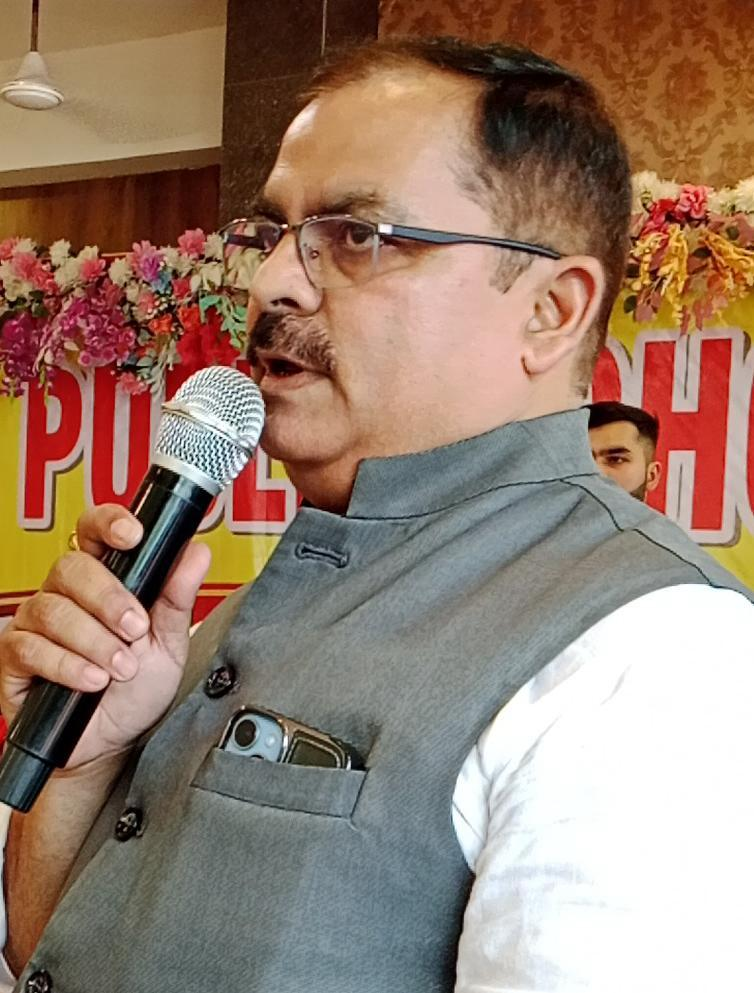
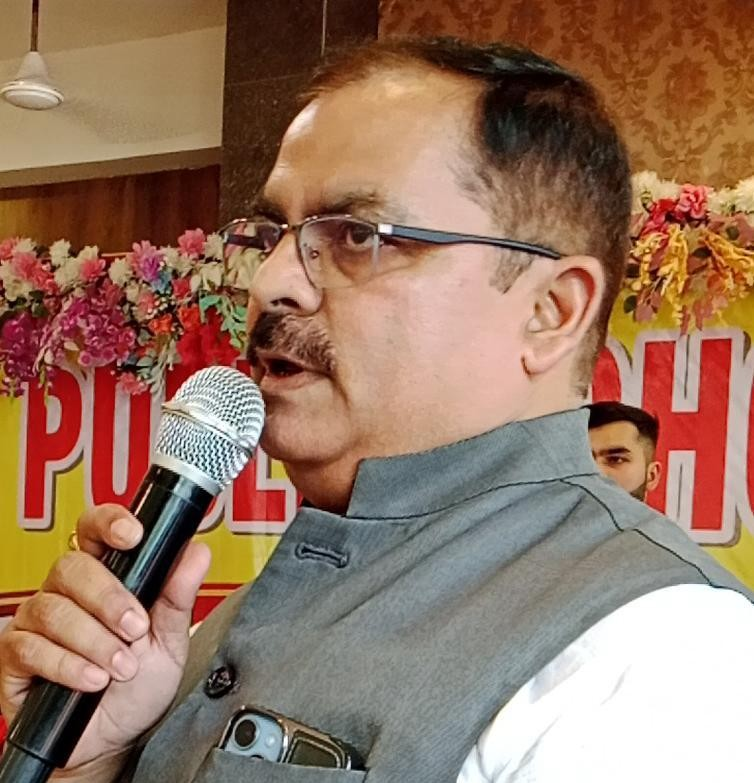
update website

diff --git a/css/style.css b/css/style.css
@@ -217,7 +217,7 @@ ul {
 
 .btn-outline:hover {
 
-    background: var(--white);
+    background: var(--surface);
 
     color: var(--primary);
 }
@@ -313,6 +313,10 @@ ul {
     width: 52px;
 
     height: 52px;
+
+    flex: 0 0 52px;
+
+    aspect-ratio: 1;
 
     overflow: hidden;
 
@@ -550,21 +554,18 @@ ul {
     background:
         linear-gradient(
             90deg,
-            rgba(7,31,54,.96),
-            rgba(7,31,54,.72),
-            rgba(7,31,54,.25)
+            rgba(0, 0, 0, .62),
+            rgba(0, 0, 0, .28),
+            rgba(0, 0, 0, .06)
         );
 }
 
 
 .hero-slider-controls {
     position: absolute;
-    right: max(4%, calc((100vw - 1150px) / 2));
-    bottom: 28px;
+    inset: 0;
     z-index: 3;
-    display: flex;
-    align-items: center;
-    gap: 12px;
+    pointer-events: none;
 }
 
 
@@ -579,16 +580,35 @@ ul {
 
 
 .hero-slider-arrow {
-    width: 40px;
-    height: 40px;
+    position: absolute;
+    top: 50%;
+    width: 48px;
+    height: 48px;
     border-radius: 50%;
-    font-size: 19px;
+    font-size: 24px;
+    pointer-events: auto;
+    transform: translateY(-50%);
+}
+
+
+.hero-slider-arrow[data-slide-direction="previous"] {
+    left: max(4%, calc((100vw - 1150px) / 2));
+}
+
+
+.hero-slider-arrow[data-slide-direction="next"] {
+    right: max(4%, calc((100vw - 1150px) / 2));
 }
 
 
 .hero-slider-dots {
+    position: absolute;
+    bottom: 43px;
+    left: 50%;
     display: flex;
     gap: 8px;
+    transform: translateX(-50%);
+    pointer-events: auto;
 }
 
 
@@ -624,11 +644,17 @@ ul {
 
 .hero-content {
 
-    max-width: 730px;
+    max-width: 1000px;
 
-    padding: 80px 0;
+    padding: 80px 64px;
 
     color: var(--white);
+
+    text-align: left;
+
+    margin-left: 0;
+
+    margin-right: auto;
 }
 
 
@@ -662,17 +688,23 @@ ul {
 
     font-family: var(--heading);
 
-    font-size: clamp(45px, 6vw, 76px);
+    font-size: 72px;
 
     line-height: 1.05;
 
-    margin-bottom: 20px;
+    margin-bottom: 100px;
 }
 
 
 .hero h1 span {
 
     color: #ffd47c;
+}
+
+
+.hero h1 .hero-title-primary {
+    color: var(--white);
+    white-space: nowrap;
 }
 
 
@@ -684,6 +716,10 @@ ul {
 
     max-width: 620px;
 
+    margin-left: 0;
+
+    margin-right: 0;
+
     margin-bottom: 30px;
 }
 
@@ -691,6 +727,8 @@ ul {
 .hero-buttons {
 
     display: flex;
+
+    justify-content: flex-start;
 
     flex-wrap: wrap;
 
@@ -880,49 +918,69 @@ ul {
 
     display: grid;
 
-    grid-template-columns: minmax(0, 1fr);
+    grid-template-columns: repeat(2, minmax(0, 1fr));
 
-    max-width: 760px;
-
-    margin-right: auto;
+    max-width: 920px;
+    margin: 0 auto;
 
     gap: 25px;
 }
 
 
-.leader-card {
-
-    display: grid;
-
-    grid-template-columns: 200px 1fr;
-
-    overflow: hidden;
-
-    border-radius: var(--radius);
-
+.leadership-feature {
+    width: min(640px, 100%);
+    margin: 0 auto 32px;
+    padding: 20px;
+    text-align: center;
     background: var(--surface);
+    border: 1px solid var(--border);
+    border-radius: var(--radius);
+    box-shadow: var(--shadow);
+}
 
+
+.leadership-feature img {
+    width: min(560px, 100%);
+    aspect-ratio: 1;
+    height: auto;
+    margin: 0 auto;
+    object-fit: cover;
+    object-position: center;
+    border-radius: var(--radius);
+}
+
+
+.leadership-caption {
+    margin-top: 18px;
+    color: var(--primary);
+    font-family: "Nirmala UI", "Noto Serif Devanagari", serif;
+    font-size: clamp(20px, 3vw, 28px);
+    font-weight: 700;
+    line-height: 1.55;
+}
+
+
+.leader-card {
+    display: flex;
+    flex-direction: column;
+    text-align: center;
+    overflow: hidden;
+    border-radius: var(--radius);
+    background: var(--surface);
     box-shadow: var(--shadow);
 }
 
 
 .leader-card img {
-
     width: 100%;
-
-    height: 100%;
-
-    min-height: 280px;
-
+    height: 370px;
     object-fit: cover;
-
-    object-position: left center;
+    object-position: center;
 }
 
 
 .leader-content {
-
-    padding: 30px;
+    padding: 24px;
 }
 
 
@@ -1650,7 +1708,24 @@ footer li {
    RESPONSIVE
 ========================================================= */
 
+@media (min-width: 1001px) {
+
+    .leaders-grid {
+        gap: 200px;
+    }
+
+}
+
+
 @media (max-width: 1000px) {
+
+    .hero h1 {
+        font-size: 48px;
+    }
+
+    .leaders-grid {
+        gap: 25px;
+    }
 
     .menu-button {
 
@@ -1672,7 +1747,7 @@ footer li {
 
         padding: 25px;
 
-        background: var(--white);
+        background: var(--surface);
 
         box-shadow:
             0 15px 25px rgba(0,0,0,.08);
@@ -1756,15 +1831,42 @@ footer li {
     }
 
 
-    .hero-slider-controls {
-        right: 4%;
-        bottom: 18px;
+    .hero-content {
+        padding: 80px 0;
     }
 
 
     .hero h1 {
+        font-size: 40px;
+    }
 
-        font-size: 46px;
+
+    .hero-slider-controls {
+        inset: 0;
+    }
+
+
+    .hero-slider-arrow[data-slide-direction="previous"] {
+        left: 4%;
+    }
+
+
+    .hero-slider-arrow[data-slide-direction="next"] {
+        right: 4%;
+    }
+
+
+    .hero-slider-arrow {
+        top: auto;
+        bottom: 18px;
+        width: 44px;
+        height: 44px;
+        transform: none;
+    }
+
+
+    .hero-slider-dots {
+        bottom: 33px;
     }
 
 
@@ -1800,7 +1902,7 @@ footer li {
 
     .leader-card img {
 
-        height: 300px;
+        height: 350px;
 
         min-height: auto;
     }
@@ -1846,6 +1948,11 @@ footer li {
 
 @media (max-width: 450px) {
 
+    .hero h1 {
+        font-size: 30px;
+    }
+
+
     .logo-text small {
 
         display: none;
@@ -1855,12 +1962,6 @@ footer li {
     .logo-text strong {
 
         font-size: 16px;
-    }
-
-
-    .hero h1 {
-
-        font-size: 39px;
     }
 
 

diff --git a/index.html b/index.html
@@ -274,6 +274,15 @@
                 </div>
 
 
+                <div class="leadership-feature">
+                    <img src="assets/inspiration.jpeg" alt="Students celebrating and learning together at school" loading="lazy">
+                    <div class="leadership-caption">
+                        प्रातः स्मरणीय परम पूज्य<br>
+                        सन्त विरागी बाबा जी महाराज
+                    </div>
+                </div>
+
+
                 <div class="leaders-grid" id="leadersGrid">
                     <!-- JS -->
                 </div>

diff --git a/js/script.js b/js/script.js
@@ -225,8 +225,8 @@ function renderBasicInformation() {
 
 
     document.getElementById("heroTitle").innerHTML =
-        `${school.heroTitle}<br>
-        <span>${school.heroHighlight}</span>`;
+        `<span class="hero-title-primary">${school.heroTitle.trim()}</span><br>
+        <span>${school.heroHighlight.trim()}</span>`;
 
 
     document.getElementById("heroDescription").textContent =
